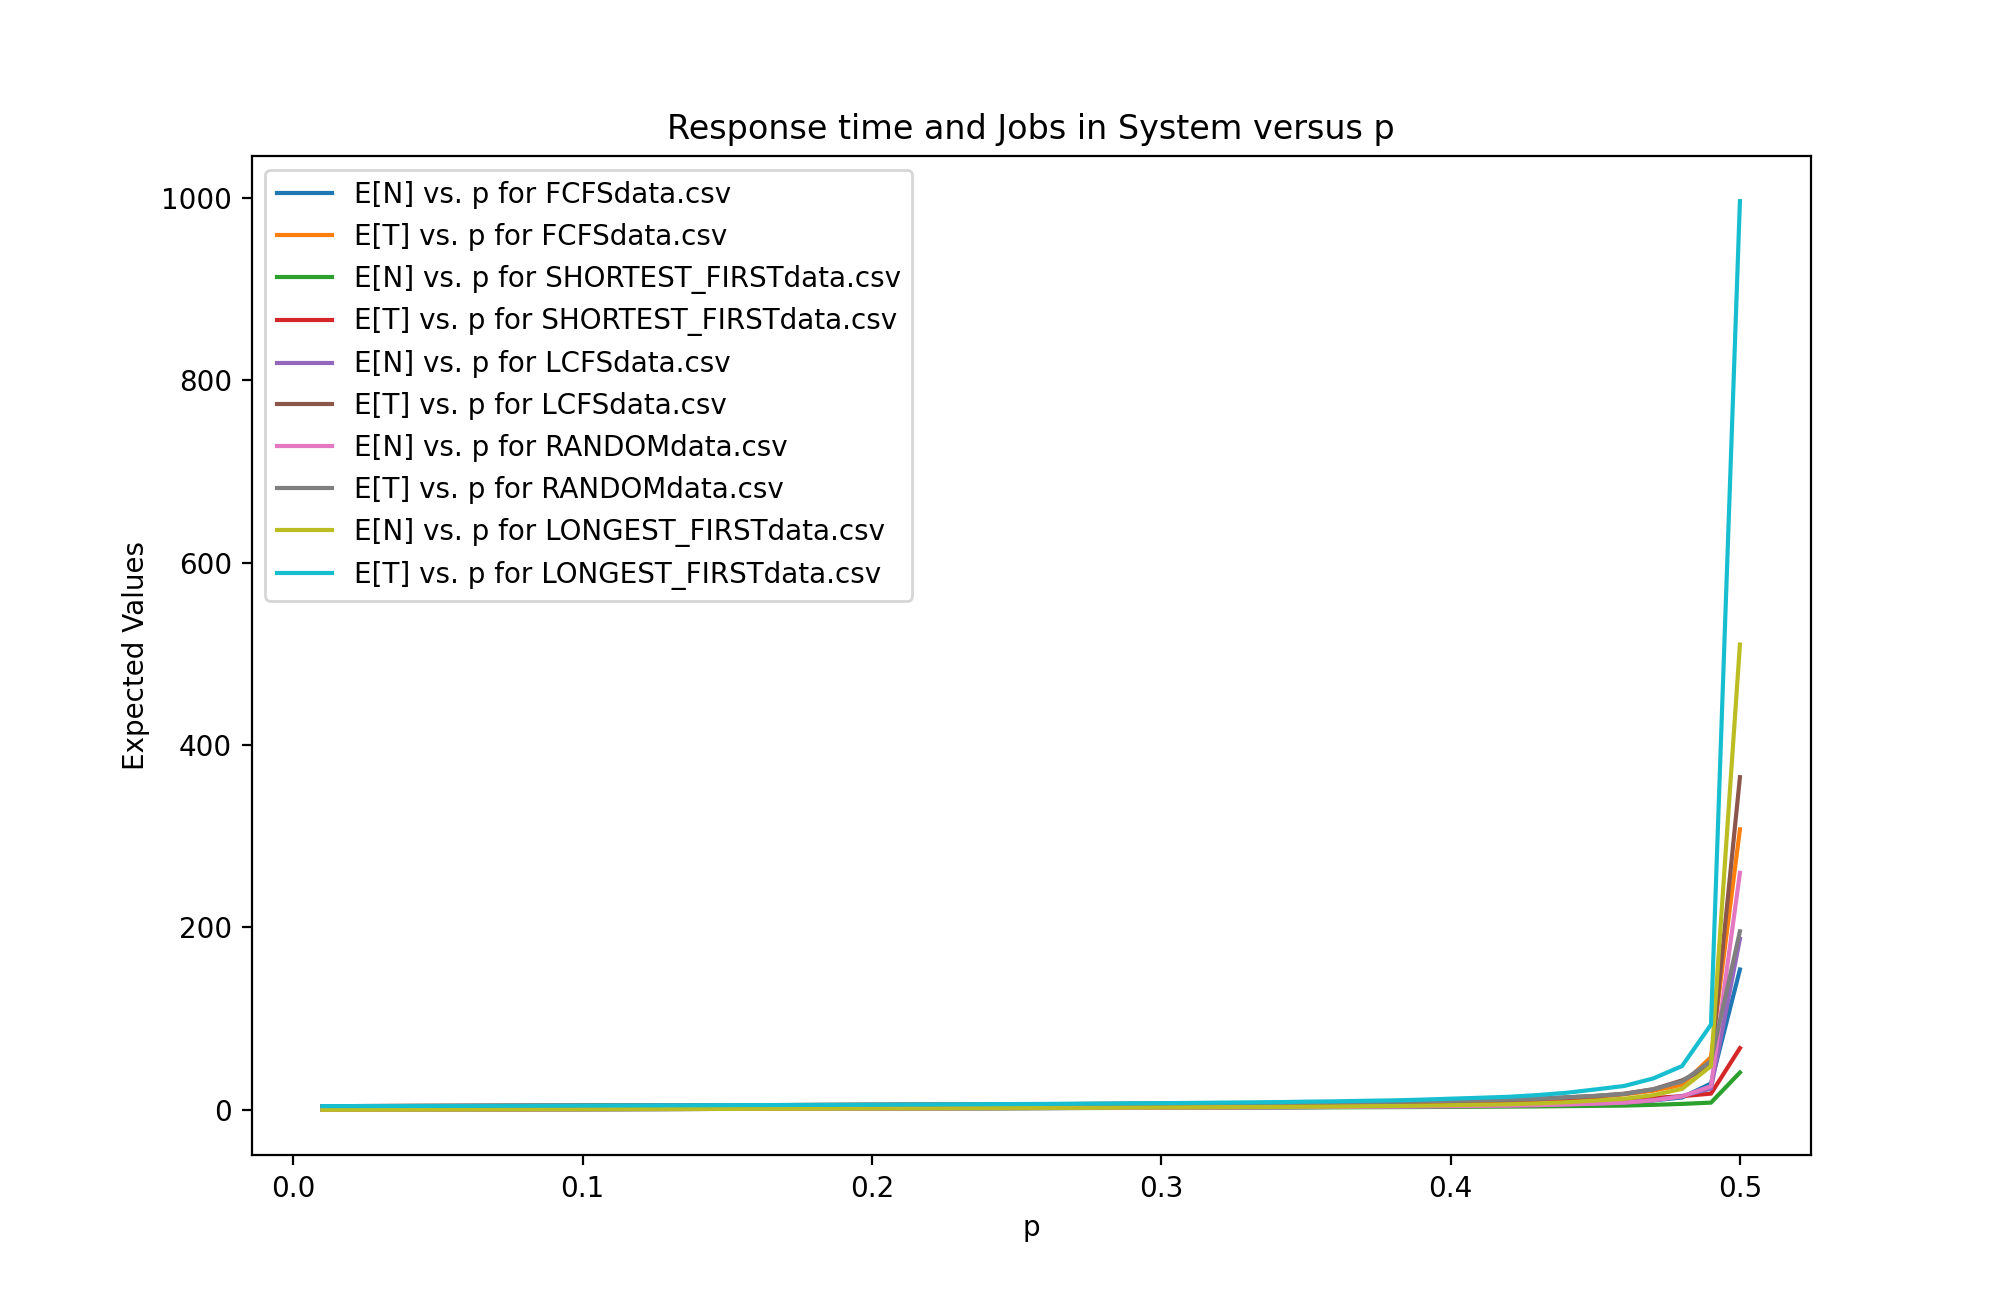
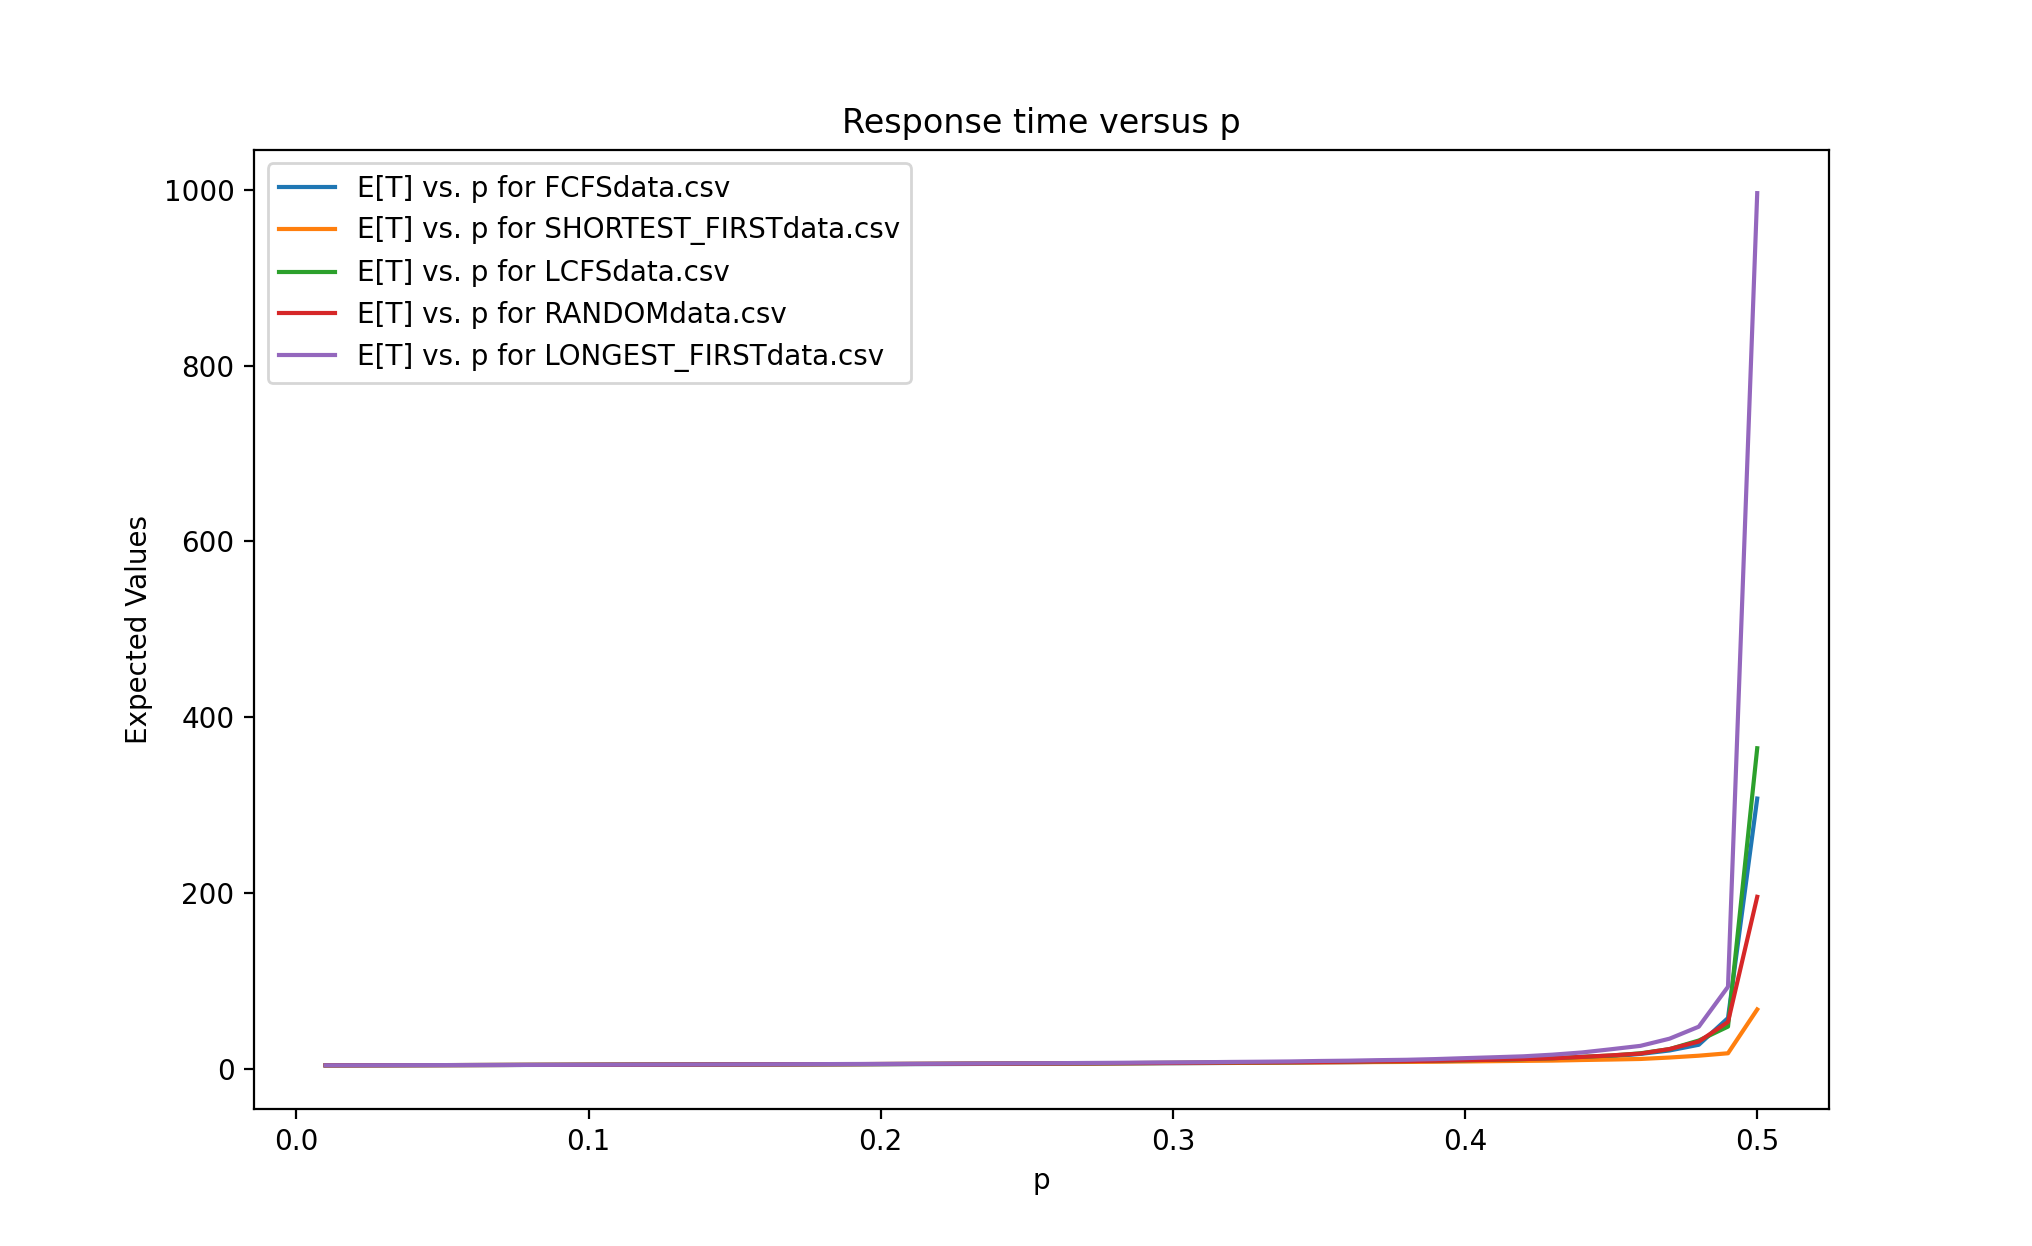
new graphs

diff --git a/graphing.py b/graphing.py
@@ -2,24 +2,25 @@ import pandas as pd
 import matplotlib.pyplot as plt
 
 
-
+#https://stackoverflow.com/questions/14262405/loop-through-all-csv-files-in-a-folder
 import glob
 path = "*.csv"
 print (glob.glob(path))
-for fname in glob.glob(path):
-    print(fname)
+sublist = [file for file in glob.glob(path)]
+for fname in sublist:
+    
         
     data = pd.read_csv(fname)
 
     x = data['p']
     E_N = data['E[N]']
-    E_T = data['E[T]']
+    #E_T = data['E[T]']
 
     labelN = "E[N] vs. p for " + fname
-    labelT = "E[T] vs. p for " + fname
+    #labelT = "E[T] vs. p for " + fname
 
     plt.plot(x, E_N, label = labelN)
-    plt.plot(x, E_T, label = labelT)
+    #plt.plot(x, E_T, label = labelT)
 
 
 '''
@@ -35,13 +36,13 @@ plt.plot(verifyP, vet)
 '''
 
 plt.legend(loc = "best")
-plt.title("Response time and Jobs in System versus p")
+plt.title("Jobs in System versus p")
 plt.xlabel("p")
 plt.ylabel("Expected Values")
 
 
 #this line for more focus on the upper end where the data change
-#plt.xlim(.47, .50)
+plt.xlim(.44, .50)
 
 plt.show()
 

diff --git a/Experiment.java b/Experiment.java
@@ -8,13 +8,13 @@ public class Experiment {
 
 
         for (Policy pol : Policy.values()){
-            String filename = pol.name() + "data.csv";
+            String filename = pol.name() + "datap=.55.csv";
             try{
                 PrintStream csvFile = new PrintStream(filename);
 
                 System.setOut(csvFile);
                 System.out.println("p,E[N],E[T]\n"); 
-                for (double p =.01; p <.51; p+=.01){
+                for (double p =.01; p <.55; p+=.01){
                     Server s = new Server(p, .5, pol);
                     s.simulate(300000);
                     //Here, we want to write to a file
